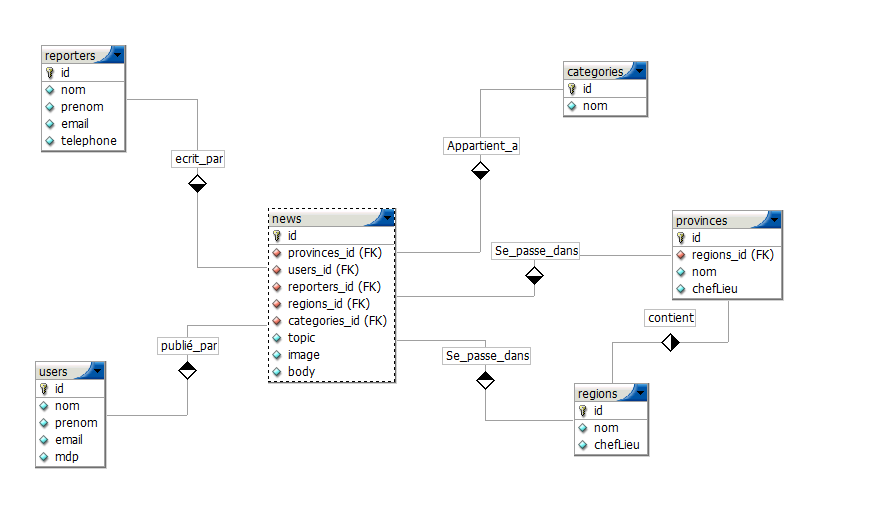
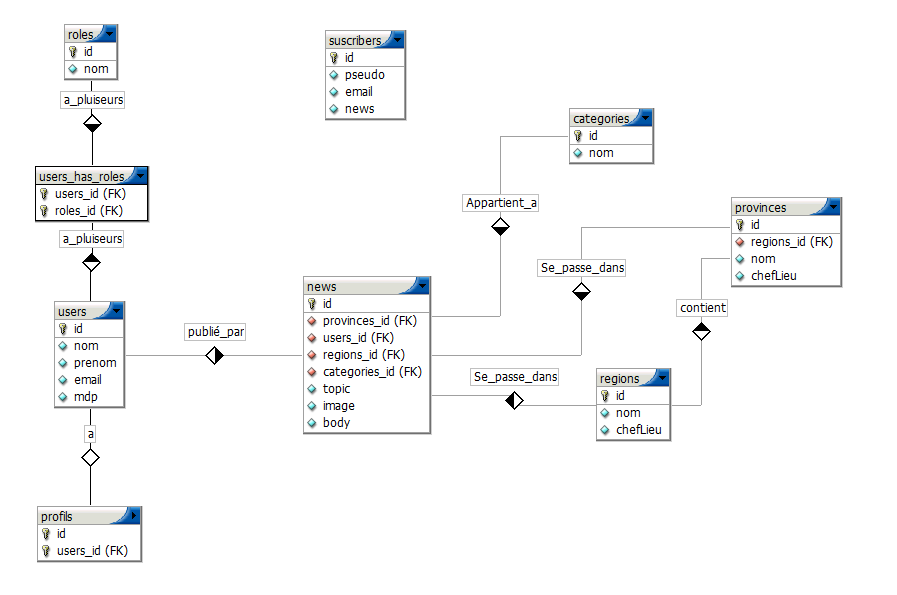
seeding de la base de donnée terminé

diff --git a/FasoMagazine/database/seeds/UserTableSeeder.php b/FasoMagazine/database/seeds/UserTableSeeder.php
@@ -1,0 +1,50 @@
+<?php
+
+use Illuminate\Database\Seeder;
+use Illuminate\Support\Facades\DB;
+use Illuminate\Support\Facades\Hash;
+use App\User;
+use App\Role;
+class UserTableSeeder extends Seeder
+{
+    /**
+     * Run the database seeds.
+     *
+     * @return void
+     */
+    public function run()
+    {
+        User::truncate();
+
+
+        DB::table('role_user')->truncate();
+
+
+        $admin=User::create([
+            'name'=>'admin',
+            'email'=>'admin@gmail.com',
+            'password'=>Hash::make('password')
+        ]);
+
+        $reporter=User::create([
+            'name'=>'reporter',
+            'email'=>'reporter@gmail.com',
+            'password'=>Hash::make('password')
+        ]);
+        
+        $user=User::create([
+            'name'=>'user',
+            'email'=>'user@gmail.com',
+            'password'=>Hash::make('password')
+        ]); 
+        
+        $adminRoles=Role::where('name','admin')->first();
+        $userRoles=Role::where('name','user')->first();
+        $reporterRoles=Role::where('name','reporter')->first();
+        
+        $admin->roles()->attach($adminRoles);
+        $user->roles()->attach($userRoles);
+        $reporter->roles()->attach($reporterRoles);
+
+    }
+}

diff --git a/FasoMagazine/database/migrations/2020_07_22_231601_create_role_user_table.php b/FasoMagazine/database/migrations/2020_07_22_231601_create_role_user_table.php
@@ -4,7 +4,7 @@ use Illuminate\Database\Migrations\Migration;
 use Illuminate\Database\Schema\Blueprint;
 use Illuminate\Support\Facades\Schema;
 
-class CreateRolesTable extends Migration
+class CreateRoleUserTable extends Migration
 {
     /**
      * Run the migrations.
@@ -13,9 +13,10 @@ class CreateRolesTable extends Migration
      */
     public function up()
     {
-        Schema::create('roles', function (Blueprint $table) {
+        Schema::create('role_user', function (Blueprint $table) {
             $table->id();
-            $table->string('name');
+            $table->integer('role_id')->unsigned();
+            $table->integer('user_id')->unsigned();
             $table->timestamps();
         });
     }
@@ -27,6 +28,6 @@ class CreateRolesTable extends Migration
      */
     public function down()
     {
-        Schema::dropIfExists('roles');
+        Schema::dropIfExists('role_user');
     }
 }

diff --git a/FasoMagazine/resources/views/admin/users/index.blade.php b/FasoMagazine/resources/views/admin/users/index.blade.php
@@ -10,7 +10,16 @@
                 <div class="card-body">
                     <div class="list-group">
                         @foreach($users as $user)
-                         <li class="list-item">{{$user->name}}-{{$user->email}}</li>
+                            <li class="list-item">{{$user->name}}-{{$user->email}}</li>
+                            <ol>
+                            
+                            @foreach($user->roles as $user->role)
+                                <li class="list-item">-------{{$user->role->nom}}</li>
+                        
+                        
+                    
+                             @endforeach
+                            </ol>
                         
                         @endforeach
                 

diff --git a/FasoMagazine/database/seeds/RolesTableSeeder.php b/FasoMagazine/database/seeds/RolesTableSeeder.php
@@ -1,0 +1,21 @@
+<?php
+
+use Illuminate\Database\Seeder;
+use App\Role;
+
+class RolesTableSeeder extends Seeder
+{
+    /**
+     * Run the database seeds.
+     *
+     * @return void
+     */
+    public function run()
+    {
+        Role::truncate();
+
+        Role::create(['name'=>'admin']);
+        Role::create(['name'=>'user']);
+        Role::create(['name'=>'reporter']);
+    }
+}

diff --git a/FasoMagazine/database/seeds/DatabaseSeeder.php b/FasoMagazine/database/seeds/DatabaseSeeder.php
@@ -11,6 +11,9 @@ class DatabaseSeeder extends Seeder
      */
     public function run()
     {
-        // $this->call(UserSeeder::class);
+        $this->call(RolesTableSeeder::class);
+        $this->call(UserTableSeeder::class);
+
+        
     }
 }

diff --git a/FasoMagazine/app/Http/Controllers/Admin/UsersController.php b/FasoMagazine/app/Http/Controllers/Admin/UsersController.php
@@ -25,7 +25,8 @@ class UsersController extends Controller
      */
     public function index()
     {
-        $users=User::all();
+        $users=User::get();
+        dd($users);
         return view('admin.users.index',compact('users'));
     }
 

diff --git a/FasoMagazine/app/User.php b/FasoMagazine/app/User.php
@@ -36,4 +36,9 @@ class User extends Authenticatable
     protected $casts = [
         'email_verified_at' => 'datetime',
     ];
+
+
+    public function roles(){
+        return $this->hasMany('App\Role');
+    }
 }

diff --git a/FasoMagazine/app/Role.php b/FasoMagazine/app/Role.php
@@ -6,5 +6,7 @@ use Illuminate\Database\Eloquent\Model;
 
 class Role extends Model
 {
-    //
+    public function users(){
+        return $this->belongsToMany('App\User');
+    }
 }
